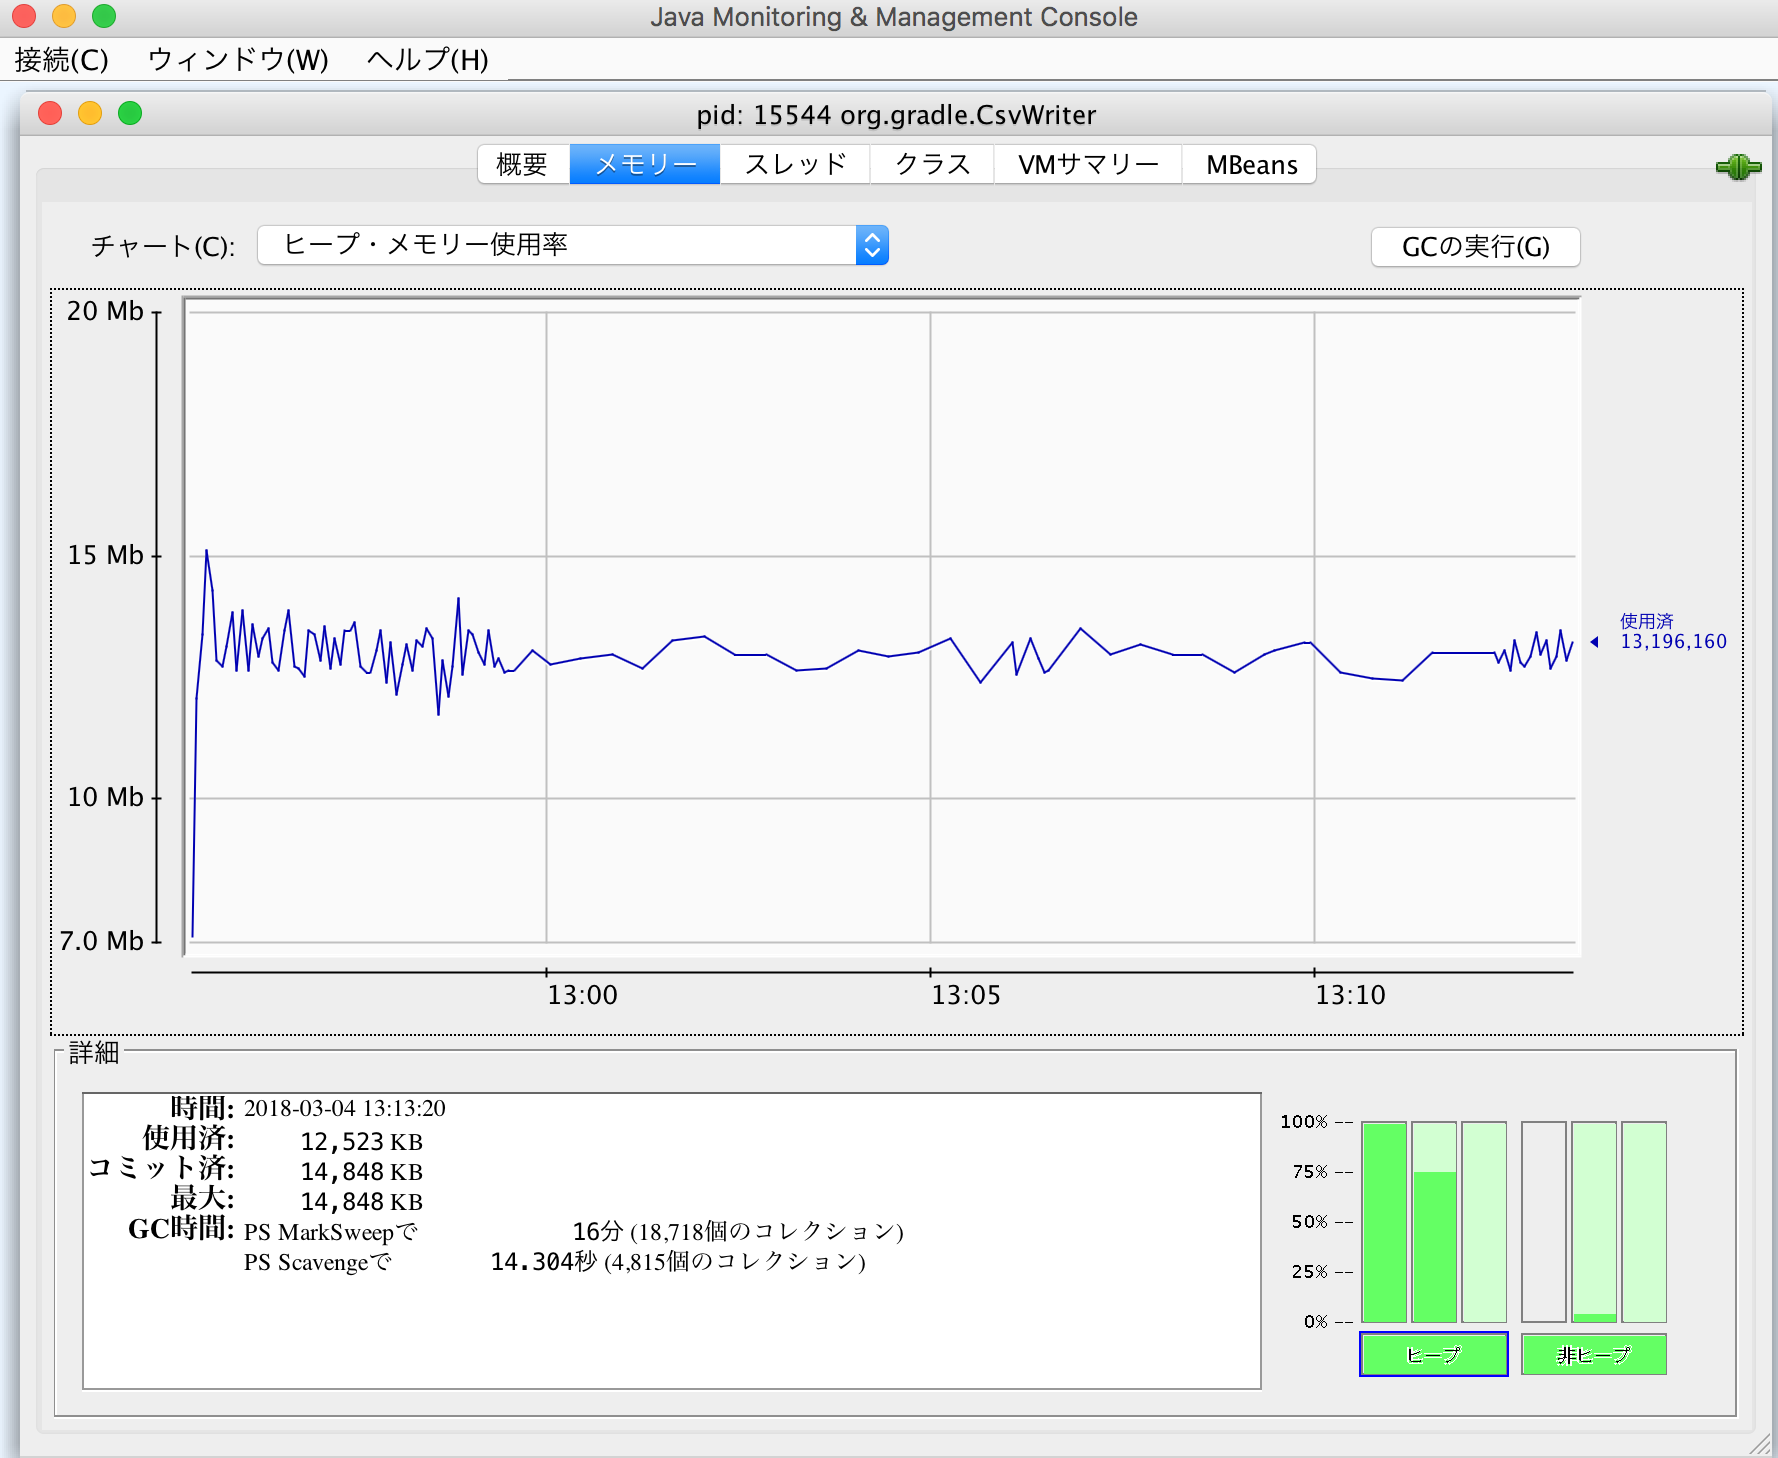
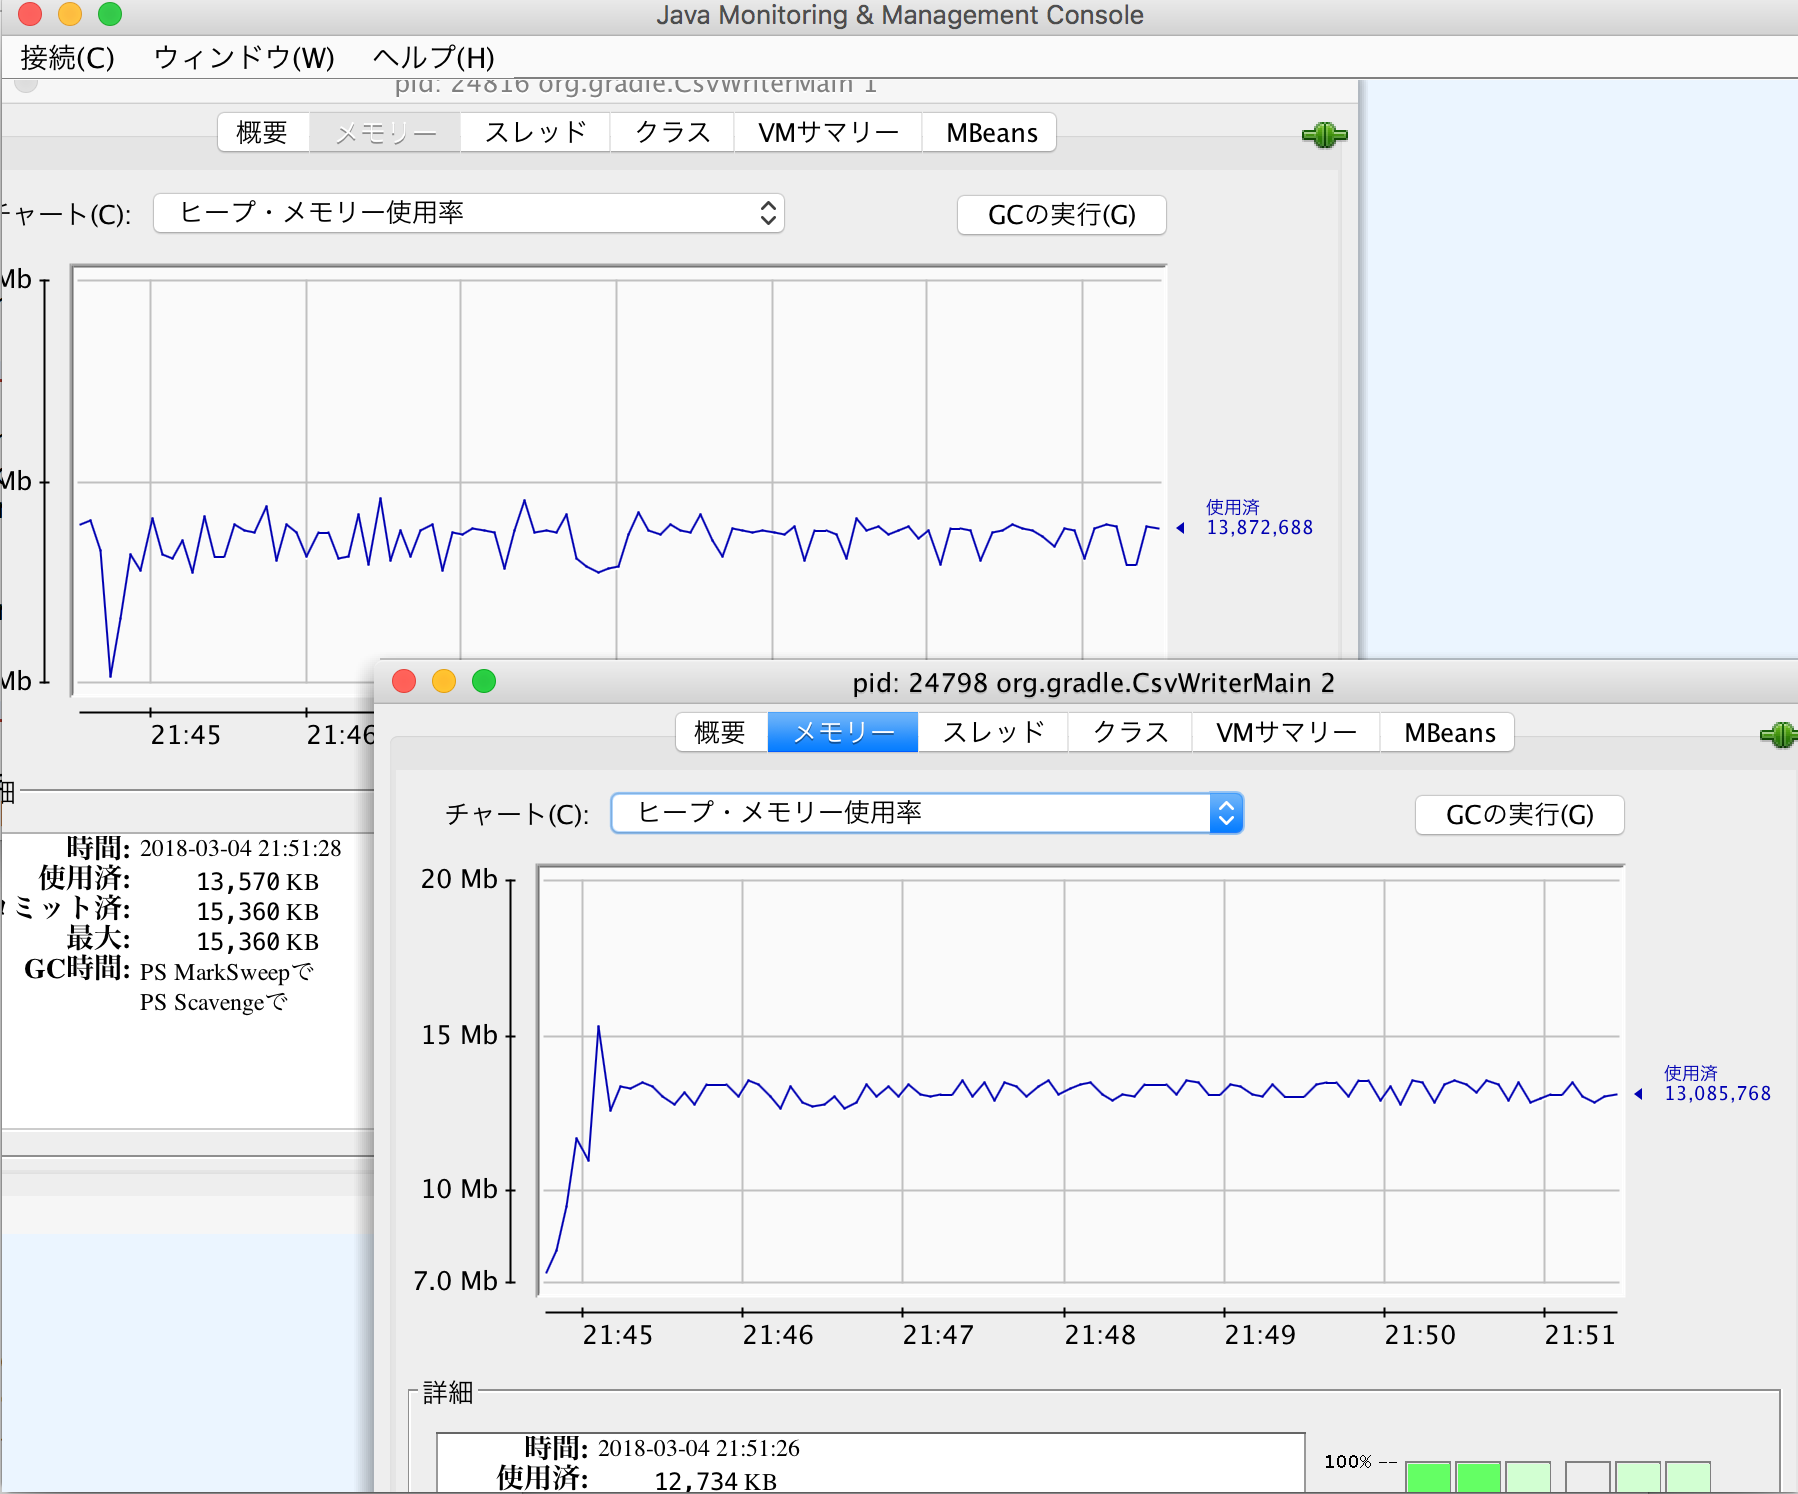
.

diff --git a/src/main/java/org/gradle/CsvWriterMain.java b/src/main/java/org/gradle/CsvWriterMain.java
@@ -18,7 +18,7 @@ import com.orangesignal.csv.CsvConfig;
 import com.orangesignal.csv.manager.CsvBeanManager;
 
 public class CsvWriterMain {
-	static Long LOOP_COUNT = 3L;
+	static Long LOOP_COUNT = Long.MAX_VALUE;
 
 	public static <T> void main(String[] args) throws IOException,
 			CsvDataTypeMismatchException, CsvRequiredFieldEmptyException {
